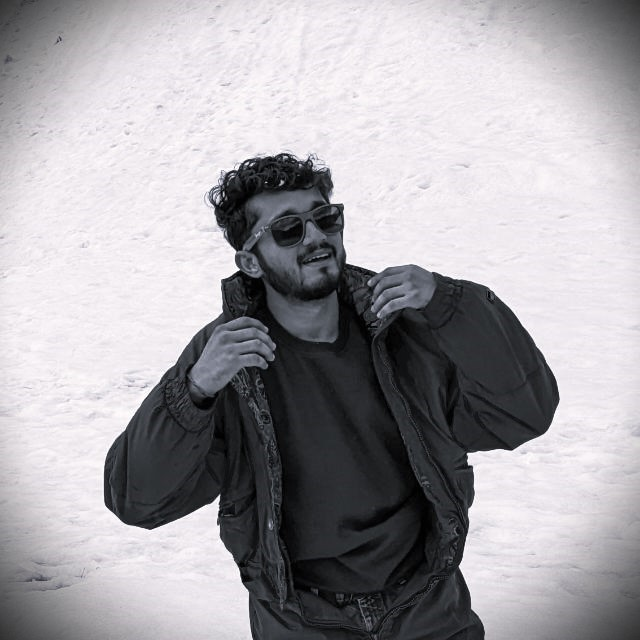
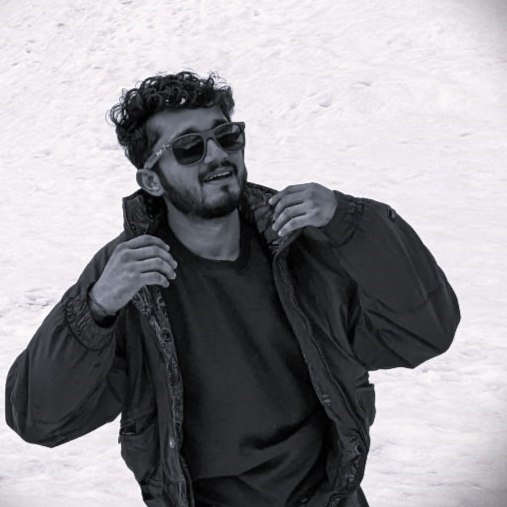
website updated

diff --git a/index.html b/index.html
@@ -50,7 +50,7 @@
                     <i class="fa fa-bars"></i>
                 </button>
                 <a class="navbar-brand page-scroll" href="#page-top">
-                    <i class="fa fa-play-circle"></i>  <span class="light">InvenCo</span> 
+                <i class="fa fa-qrcode" aria-hidden="true"style="font-size:48px;color:white"><br></i>  <span class="dark">InvenCo</span> 
                 </a>
             </div>
 
@@ -87,7 +87,7 @@
                 <div class="row">
                     <div class="col-md-8 col-md-offset-2">
                         <h1 class="brand-heading">Stock Taking,<br>Simplified.</h1>
-                        <p class="intro-text">We use AI enabled drones to count<br>inventory for you.</p>
+                        <p class="intro-text">We use AI enabled drones to count inventory for you.</p>
                         <a href="#about" class="btn btn-circle page-scroll">
                             <i class="fa fa-angle-double-down animated"></i>
                         </a>
@@ -114,23 +114,20 @@
         <div class="container">
          <h1>Products</h1>
           <div class="row feature design">
-            <div class="col-sm-4"> <img src="img/feature-img-1.png" alt="Girl in a jacket" width="300" height="200"> </div>
-            <div class="col-sm-4"> <img src="img/feature-img-1.png" alt="Girl in a jacket" width="300" height="200"> </div>
-            <div class="col-sm-4"> <img src="img/feature-img-1.png" alt="Girl in a jacket" width="300" height="200"> </div>
+            <div class="col-sm-4"> <img src="img/barcode.png" alt="Girl in a jacket" width="300" height="200"> </div>
+            <div class="col-sm-4"> <img src="img/uin.jpg" alt="Girl in a jacket" width="300" height="200"> </div>
+            <div class="col-sm-4"> <img src="img/custom.png" alt="Girl in a jacket" width="300" height="200"> </div>
             <div class="col-sm-4">
-              <h3>Clean and Modern Design.</h3>
-              <p>Lorem ipsum dolor sit amet, ea eum labitur scsstie percipitoleat fabulas complectitur deterruisset at pro. Odio quaeque reformidans est eu, expetendis intellegebat has ut, viderer invenire ut his. Has molestie percipit an. Falli volumus efficiantur sed id, ad vel noster propriae. Ius ut etiam vivendo, graeci iudicabit constituto at mea. No soleat fabulas prodesset vel, ut quo solum dicunt.
-                Nec et amet vidisse mentitumsstie percipitoleat fabulas. </p>
+              <h3>Barcodes and <br>QR codes</h3>
+              <p>If your warehouse uses barcodes and QR codes, we will scan them and map the data in a usable format. </p>
             </div>
             <div class="col-sm-4">
-                <h3>Clean and Modern Design.</h3>
-                <p>Lorem ipsum dolor sit amet, ea eum labitur scsstie percipitoleat fabulas complectitur deterruisset at pro. Odio quaeque reformidans est eu, expetendis intellegebat has ut, viderer invenire ut his. Has molestie percipit an. Falli volumus efficiantur sed id, ad vel noster propriae. Ius ut etiam vivendo, graeci iudicabit constituto at mea. No soleat fabulas prodesset vel, ut quo solum dicunt.
-                 Nec et amet vidisse mentitumsstie percipitoleat fabulas. </p>
+                <h3>Unique Identification Number</h3>
+                <p>If your warehouse uses only UIN to label the boxes, our systems can read the text and map the data into already existing WMS. </p>
             </div>
             <div class="col-sm-4">
-                <h3>Clean and Modern Design.</h3>
-                <p>Lorem ipsum dolor sit amet, ea eum labitur scsstie percipitoleat fabulas complectitur deterruisset at pro. Odio quaeque reformidans est eu, expetendis intellegebat has ut, viderer invenire ut his. Has molestie percipit an. Falli volumus efficiantur sed id, ad vel noster propriae. Ius ut etiam vivendo, graeci iudicabit constituto at mea. No soleat fabulas prodesset vel, ut quo solum dicunt.
-                 Nec et amet vidisse mentitumsstie percipitoleat fabulas. </p>
+                <h3>Customization</h3>
+                <p>If your warehouse employs another methods to count the inventory, we can customize our system in accordance to your warehouse. </p>
             </div>
             
           <!--</div>
@@ -180,13 +177,13 @@
                     <!-- Image Hover Block -->
                     <div class="member-img"> 
                     <!-- Image  --> 
-                    <img class="img-responsive" src="img/photo-1.jpeg" alt=""> </div>
+                    <img class="img-responsive" src="img/photo-1.png" alt=""> </div>
                     <!-- Member Details -->
                     <p class ="big"></p>
                     <h4>Mohit Kenia</h4>
                     <!-- Designation --> 
                     <span class="pos"><!--CEO--></1--CEO--></span>
-                    <div class="team-socials"> <a href="#"><i class="fa fa-facebook"></i></a> <a href="#"><i class="fa fa-google-plus"></i></a> <a href="#"><i class="fa fa-twitter"></i></a> <a href="#"><i class="fa fa-dribbble"></i></a> <a href="#"><i class="fa fa-github"></i></a> </div>
+                    <!--<div class="team-socials"> <a href="#"><i class="fa fa-facebook"></i></a> <a href="#"><i class="fa fa-google-plus"></i></a> <a href="#"><i class="fa fa-twitter"></i></a> <a href="#"><i class="fa fa-dribbble"></i></a> <a href="#"><i class="fa fa-github"></i></a> </div> -->
                 </div>
                 </div>
                 <div class="col-md-3 col-sm-6 col-xs-6"> 
@@ -201,7 +198,7 @@
                     <h4>Abhishek Khambhata</h4> 
                     <!-- Designation --> 
                     <span class="pos"><!--Art Director--></span>
-                    <div class="team-socials"> <a href="#"><i class="fa fa-facebook"></i></a> <a href="#"><i class="fa fa-google-plus"></i></a> <a href="#"><i class="fa fa-twitter"></i></a> <a href="#"><i class="fa fa-dribbble"></i></a> <a href="#"><i class="fa fa-github"></i></a> </div>
+                    <!--<div class="team-socials"> <a href="#"><i class="fa fa-facebook"></i></a> <a href="#"><i class="fa fa-google-plus"></i></a> <a href="#"><i class="fa fa-twitter"></i></a> <a href="#"><i class="fa fa-dribbble"></i></a> <a href="#"><i class="fa fa-github"></i></a> </div> -->
                 </div>
                 </div>
                 <div class="col-md-3 col-sm-6 col-xs-6"> 
@@ -216,7 +213,7 @@
                     <h4>Saurabh Patel</h4>
                     <!-- Designation --> 
                     <span class="pos"><!--Manager--></span>
-                    <div class="team-socials"> <a href="#"><i class="fa fa-facebook"></i></a> <a href="#"><i class="fa fa-google-plus"></i></a> <a href="#"><i class="fa fa-twitter"></i></a> <a href="#"><i class="fa fa-dribbble"></i></a> <a href="#"><i class="fa fa-github"></i></a> </div>
+                    <!--<div class="team-socials"> <a href="#"><i class="fa fa-facebook"></i></a> <a href="#"><i class="fa fa-google-plus"></i></a> <a href="#"><i class="fa fa-twitter"></i></a> <a href="#"><i class="fa fa-dribbble"></i></a> <a href="#"><i class="fa fa-github"></i></a> </div> -->
                 </div>
                 </div>
                 <div class="col-md-3 col-sm-6 col-xs-6"> 
@@ -228,10 +225,10 @@
                     <img class="img-responsive" src="img/photo-4.jpeg" alt=""> </div>
                     <!-- Member Details -->
                     <p class ="big"></p>
-                    <h4>Dyushyant</h4>
+                    <h4>Dyushyant Singh</h4>
                     <!-- Designation --> 
                     <span class="pos"><!--Creative--></span>
-                    <div class="team-socials"> <a href="#"><i class="fa fa-facebook"></i></a> <a href="#"><i class="fa fa-google-plus"></i></a> <a href="#"><i class="fa fa-twitter"></i></a> <a href="#"><i class="fa fa-dribbble"></i></a> <a href="#"><i class="fa fa-github"></i></a> </div>
+                    <!--<div class="team-socials"> <a href="#"><i class="fa fa-facebook"></i></a> <a href="#"><i class="fa fa-google-plus"></i></a> <a href="#"><i class="fa fa-twitter"></i></a> <a href="#"><i class="fa fa-dribbble"></i></a> <a href="#"><i class="fa fa-github"></i></a> </div> -->
                 </div> <br>
                 </div>
             </div> <br>
@@ -253,13 +250,13 @@
             </div>
         </div>
     </section> -->
-    <!-- Contact Section -->
+    <!-- Contact Section 
     <section id="contact" class="contact-parlex">
         <div class="parlex-back">
           <div class="container">
             <div class="row">
               <div class="heading text-center"> 
-                <!-- Heading -->
+                <!-- Heading 
                 <h1>Contact Us</h1>
                 <p>We are happy to answer all of your questions. Just let us know how we can help by filling in the form below. <br>Our team will get back to you in the shortest possible delay.</p>
               </div>
@@ -307,9 +304,72 @@
               </div>
             </div>
           </div>
+          <!--/.container 
+        </div>
+    </section> -->
+<!----------------------------------------------------------------------------------------------->
+    <!-- Contact Section -->
+    <section id="contact" class="contact-parlex">
+        <div class="parlex-back">
+          <div class="container">
+            <div class="row">
+              <div class="heading text-center"> 
+                <!-- Heading -->
+                <h1>Contact Us</h1>
+                <p>We are happy to answer all of your questions. Just let us know how we can help by filling in the form below. <br>Our team will get back to you in the shortest possible delay.</p>
+              </div>
+            </div>
+            <div class="row mrgn30">
+              <!--<form method="post" action="" id="contactfrm" role="form">
+                <div class="col-sm-4">
+                  <div class="form-group">
+                    <label for="name">Name</label>
+                    <input type="text" class="form-control" name="name" id="name" placeholder="Enter name" title="Please enter your name (at least 2 characters)">
+                  </div>
+                  <div class="form-group">
+                    <label for="email">Your email</label>
+                    <input type="email" class="form-control" name="email" id="email" placeholder="Enter email" title="Please enter a valid email address">
+                  </div>
+                  <div class="form-group">
+                    <label for="company">Company</label>
+                    <input type="text" class="form-control" name="company" id="email" placeholder="Enter Company name" title="Please enter your company name">
+                  </div>
+                  <div class="form-group">
+                    <label for="phone">Phone</label>
+                    <input type="number" class="form-control" name="phone" id="email" placeholder="Enter phone number" title="Please enter a valid phone number">
+                  </div>
+                </div>
+                <div class="col-sm-4">
+                  <div class="form-group">
+                    <label for="comments">Message</label>
+                    <textarea name="comment" class="form-control" id="comments" cols="3" rows="9" placeholder="Let us know how we can help you…" title="Please enter your message (at least 10 characters)"></textarea>
+                  </div>
+                  <button name="submit" type="submit" class="btn btn-lg btn-primary" id="submit" formaction=" " value="save" onClick=saving()>Submit</button>
+                  <div class="result"></div>
+                </div>
+              </form> -->
+              <div class="col-sm-6">
+                <h3>Address:</h3>
+                <address>
+                <p class="big"p>
+                Unbemannt Technologies Pvt Ltd.<br>
+                2nd Floor Kalpapeshi Mahallo<br>
+                Nanpura Surat-395001 INDIA <br></p>
+                </address>
+              </div>
+              <div class="col-sm-6">
+                <address>
+                <h3>Phone:</h3>
+                <p class="big" p>
+                <i class="fa fa-phone " aria-hidden="true"> </i> +91  7066887968 &nbsp;&nbsp; <i class="fa fa-phone " aria-hidden="true"></i>  +91  7016226167 <br> </p>
+                </address>
+              </div>
+            </div>
+          </div>
           <!--/.container--> 
         </div>
     </section>
+
 
     <!-- Contact Section -->`
     <!--<section id="contact" class="container content-section text-center">
